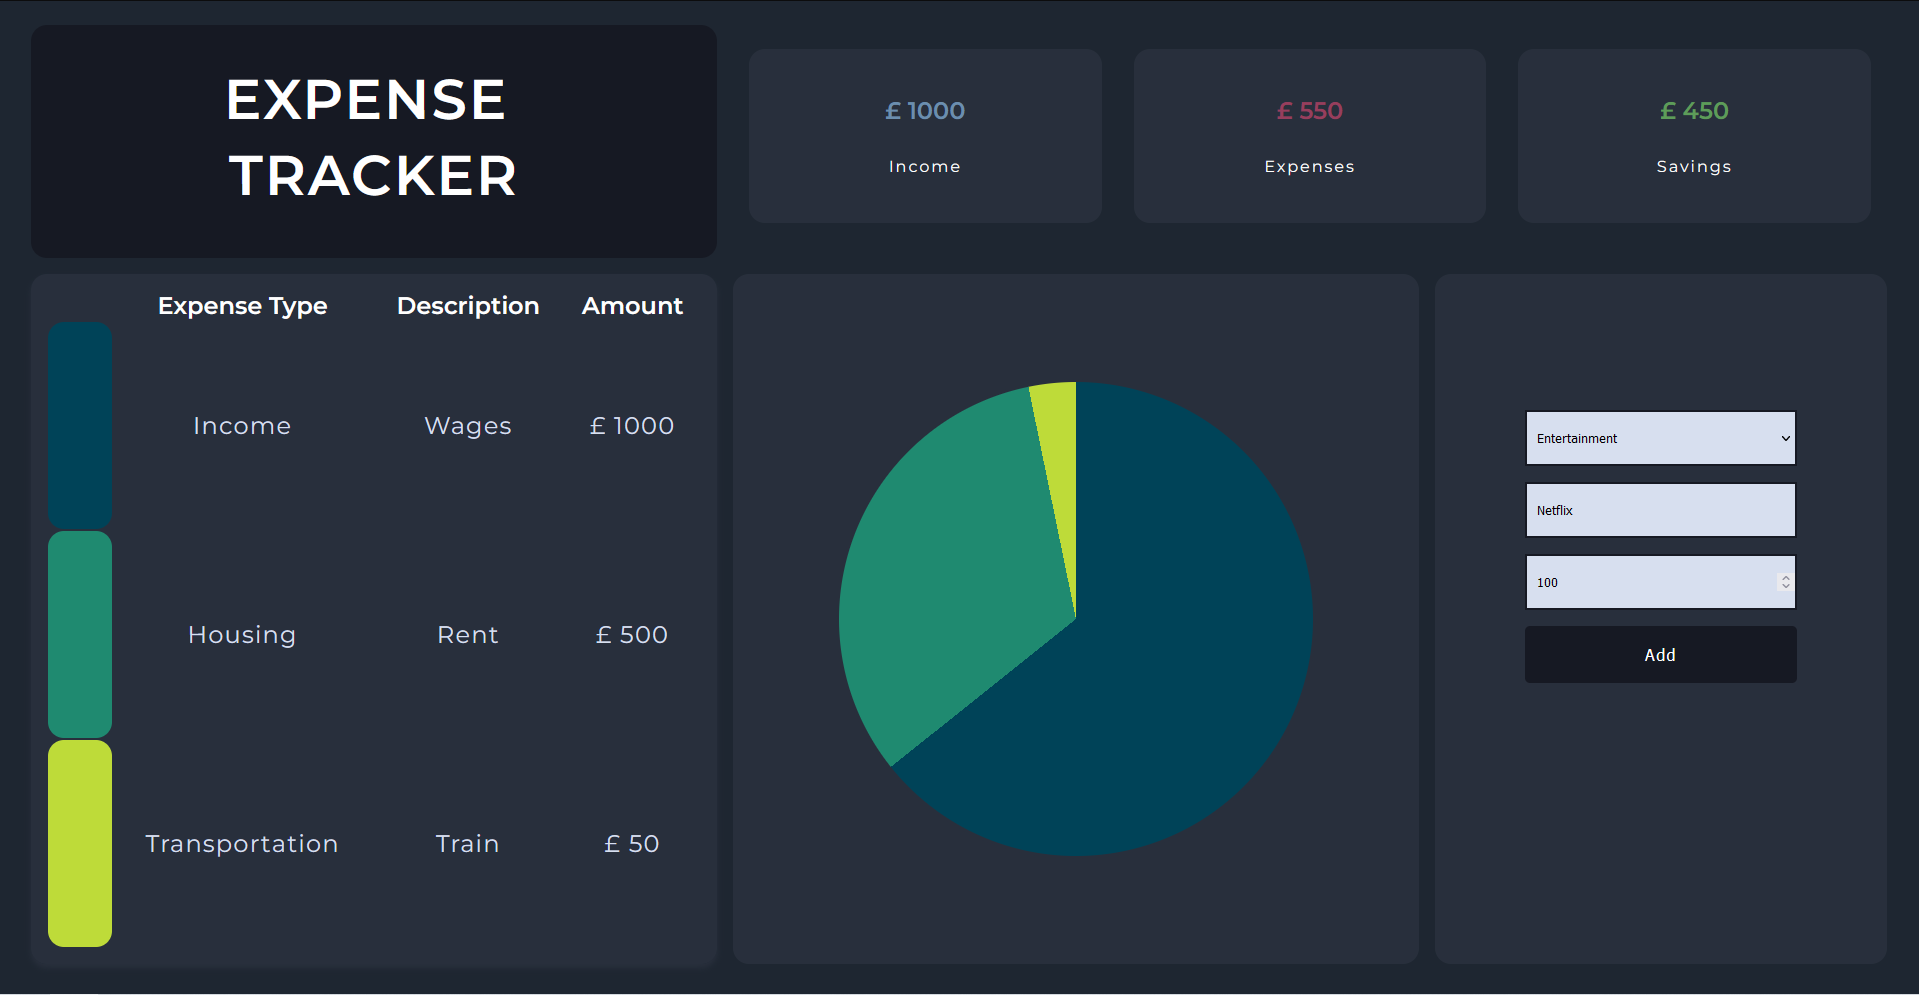
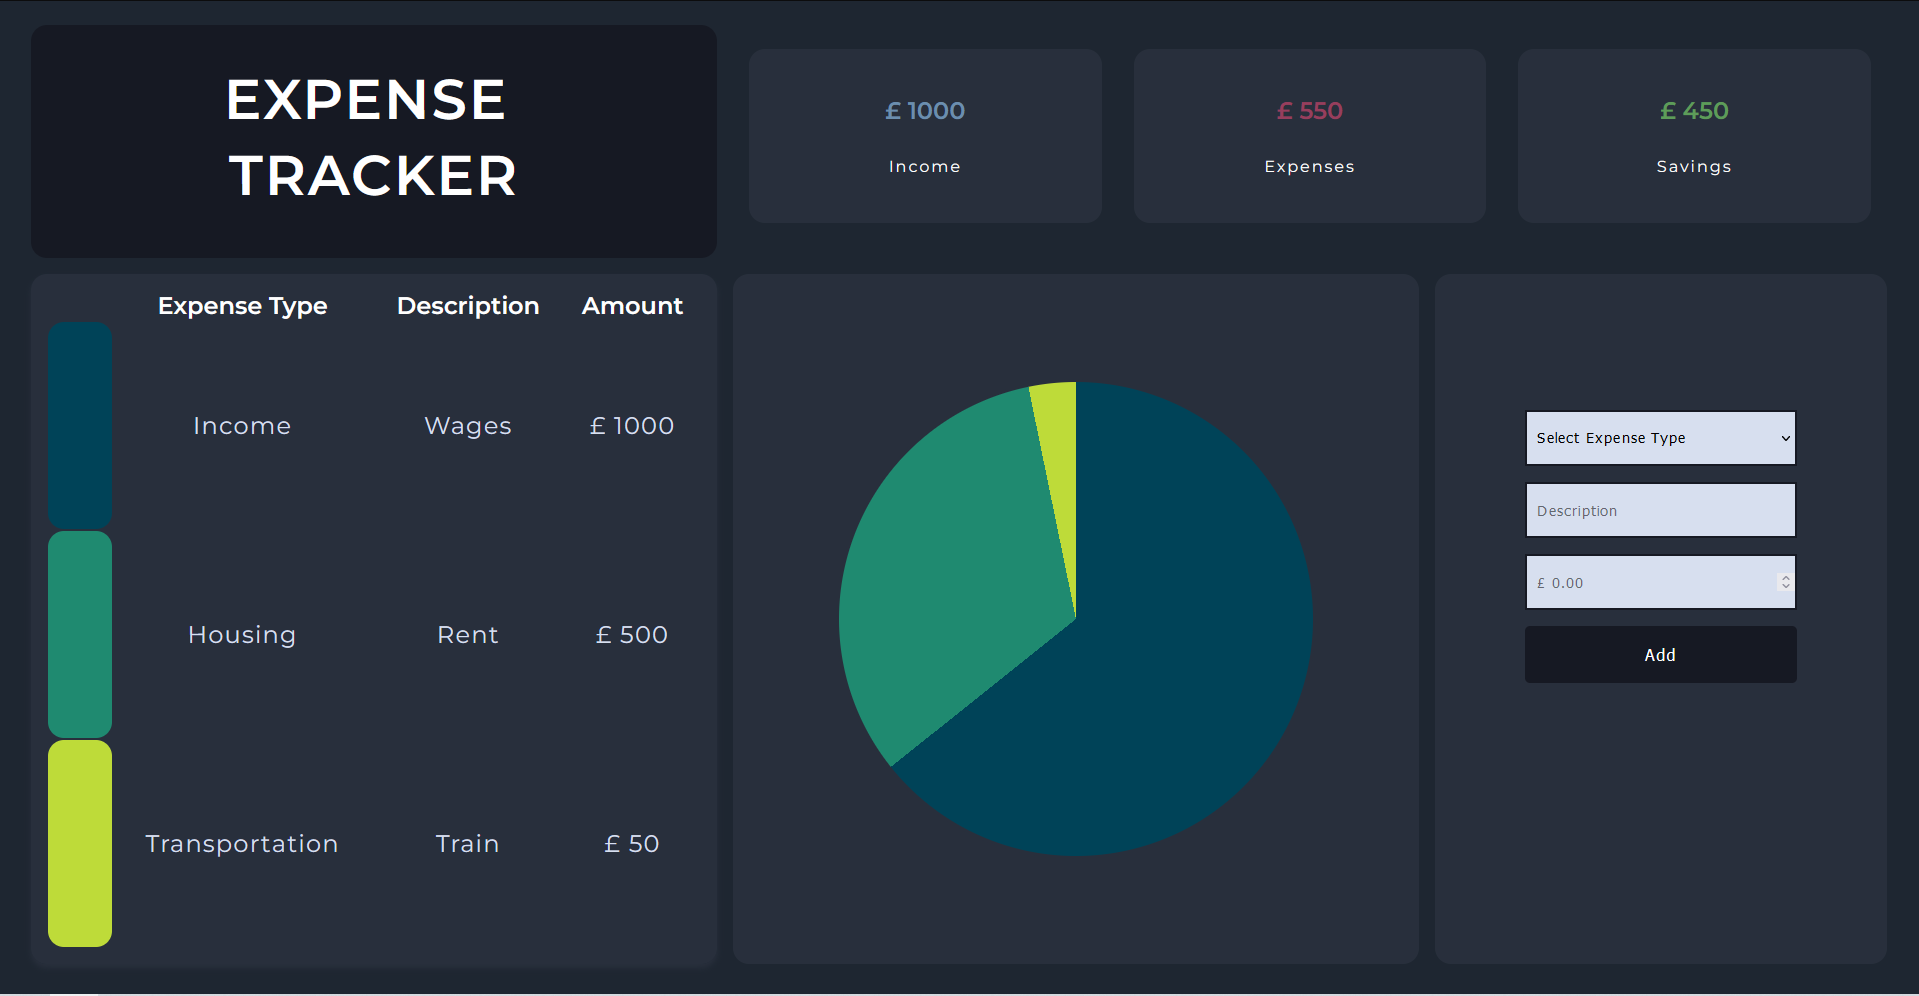
Project Complete!

diff --git a/index.html b/index.html
@@ -29,6 +29,7 @@
           name="desc"
           maxlength="15"
           autocomplete="off"
+          placeholder="Description"
         /><input
           class="input"
           type="number"

diff --git a/style.css b/style.css
@@ -111,6 +111,8 @@ body {
   box-sizing: border-box;
   border-radius: 0;
   border: 2px solid var(--accent);
+  letter-spacing: 1.2px;
+  font-size: 0.9rem;
 }
 
 .button {
